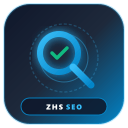
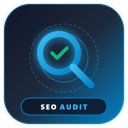
Fix laptop overflow, set default audit to single front page, rename plugin display name to SEO Inspector

Changed region(s): [[0.3125, 0.8125, 0.6875, 0.875]]

diff --git a/assets/css/dashboard.css b/assets/css/dashboard.css
@@ -68,6 +68,8 @@
 	line-height: 1.5;
 	font-size: 14px;
 	-webkit-font-smoothing: antialiased;
+	max-width: 100%;
+	overflow-x: clip;
 }
 
 #seo-inspector-app * {
@@ -176,7 +178,8 @@
 .si-brand-meta {
 	display: flex;
 	align-items: center;
-	gap: 8px;
+	flex-wrap: wrap;
+	gap: 6px 8px;
 	margin-top: 4px;
 	font-size: 12.5px;
 	color: var(--si-text-muted);
@@ -225,10 +228,15 @@
 	font-weight: 600;
 	font-size: 12px;
 	border: 1px solid var(--si-border-color);
+	max-width: 260px;
+	white-space: nowrap;
+	overflow: hidden;
+	text-overflow: ellipsis;
 }
 
 .si-audited-page-chip svg {
 	color: var(--si-primary);
+	flex-shrink: 0;
 }
 
 .si-topbar-actions {
@@ -308,9 +316,10 @@
 .si-multiselect-panel {
 	position: absolute;
 	top: calc(100% + 8px);
-	right: 0;
+	left: 0;
+	right: auto;
 	width: 380px;
-	max-width: 90vw;
+	max-width: min(380px, calc(100vw - 40px));
 	background: #ffffff;
 	border: 1px solid var(--si-border-color);
 	border-radius: var(--si-radius-lg);
@@ -1483,15 +1492,29 @@
 /* -------------------------------------------------------------------------
  * 9. RESPONSIVE MEDIA QUERIES
  * ------------------------------------------------------------------------- */
-@media (max-width: 1024px) {
+@media (max-width: 1300px) {
 	.si-topbar {
 		flex-direction: column;
-		align-items: flex-start;
+		align-items: stretch;
+		gap: 16px;
+		padding: 18px 20px;
+	}
+	.si-topbar-brand {
+		width: 100%;
 	}
 	.si-topbar-actions {
 		width: 100%;
 		justify-content: flex-start;
+		flex-wrap: wrap;
+		gap: 10px;
 	}
+	.si-multiselect-dropdown {
+		flex: 0 1 auto;
+		max-width: 100%;
+	}
+}
+
+@media (max-width: 1024px) {
 	.si-toolbar {
 		flex-direction: column;
 		align-items: stretch;
@@ -1499,9 +1522,52 @@
 	.si-toolbar-controls {
 		width: 100%;
 		justify-content: space-between;
+		flex-wrap: wrap;
+		gap: 10px;
 	}
 	.si-search-input-wrap {
 		width: 100%;
+	}
+}
+
+@media (max-width: 768px) {
+	#seo-inspector-app.si-dashboard-wrap {
+		margin: 12px 12px 30px 0;
+	}
+	.si-topbar {
+		padding: 16px;
+	}
+	.si-brand-icon {
+		width: 40px;
+		height: 40px;
+	}
+	.si-topbar-actions {
+		flex-direction: column;
+		align-items: stretch;
+	}
+	.si-multiselect-dropdown {
+		width: 100%;
+	}
+	.si-multiselect-trigger {
+		width: 100%;
+		justify-content: space-between;
+	}
+	.si-multiselect-label {
+		max-width: calc(100% - 60px);
+	}
+	.si-multiselect-panel {
+		width: 100%;
+		max-width: 100%;
+		left: 0;
+		right: 0;
+	}
+	.si-topbar-actions .si-btn {
+		width: 100%;
+		justify-content: center;
+	}
+	.si-author-badge {
+		width: 100%;
+		justify-content: center;
 	}
 }
 

diff --git a/assets/js/dashboard.js b/assets/js/dashboard.js
@@ -29,8 +29,8 @@
 		searchQuery: '',
 		isAllExpanded: false,
 		isAuditing: false,
-		auditMode: config.auditMode || 'full_site',
-		selectedUrls: config.scannedUrls && config.scannedUrls.length ? config.scannedUrls : [],
+		auditMode: config.auditMode || 'single',
+		selectedUrls: config.scannedUrls && config.scannedUrls.length ? config.scannedUrls : [ config.targetUrl || config.siteUrl ],
 		isDropdownOpen: false,
 	};
 
@@ -326,7 +326,18 @@
 		state.isDropdownOpen = true;
 		if (elements.msWrap) elements.msWrap.classList.add('open');
 		if (elements.msTrigger) elements.msTrigger.setAttribute('aria-expanded', 'true');
-		if (elements.msPanel) elements.msPanel.style.display = 'block';
+		if (elements.msPanel) {
+			elements.msPanel.style.display = 'block';
+			// Prevent panel from clipping outside screen bounds on laptop screens
+			const rect = elements.msPanel.getBoundingClientRect();
+			if (rect.right > window.innerWidth - 16) {
+				elements.msPanel.style.left = 'auto';
+				elements.msPanel.style.right = '0';
+			} else if (rect.left < 16) {
+				elements.msPanel.style.left = '0';
+				elements.msPanel.style.right = 'auto';
+			}
+		}
 		if (elements.msSearchInput) {
 			setTimeout(function () { elements.msSearchInput.focus(); }, 50);
 		}

diff --git a/scripts/generate-assets.js b/scripts/generate-assets.js
@@ -118,10 +118,10 @@ async function run() {
 		<!-- Checkmark inside lens -->
 		<polyline points="104,106 114,116 134,96" fill="none" stroke="#10b981" stroke-width="7" stroke-linecap="round" stroke-linejoin="round" />
 
-		<!-- Brand Monogram Tag: ZHS SEO -->
+		<!-- Brand Monogram Tag: SEO AUDIT -->
 		<rect x="42" y="196" width="172" height="34" rx="17" fill="#0f172a" fill-opacity="0.85" stroke="#0284c7" stroke-width="1.8" />
 		<text x="128" y="219" font-family="-apple-system, BlinkMacSystemFont, 'Segoe UI', Roboto, sans-serif" font-size="14.5" font-weight="900" fill="#ffffff" text-anchor="middle" letter-spacing="2.2">
-			ZHS <tspan fill="#38bdf8">SEO</tspan>
+			SEO <tspan fill="#38bdf8">AUDIT</tspan>
 		</text>
 	</svg>
 	`;
@@ -218,7 +218,7 @@ async function run() {
 
 			<!-- Main Title -->
 			<text x="0" y="98" font-family="-apple-system, BlinkMacSystemFont, 'Segoe UI', Roboto, sans-serif" font-size="64" font-weight="900" fill="#ffffff" letter-spacing="-1.5">
-				SEO Inspector <tspan fill="url(#cyanText)">ZHS</tspan>
+				SEO <tspan fill="url(#cyanText)">Inspector</tspan>
 			</text>
 
 			<!-- Subtitle -->

diff --git a/scripts/package-release.js b/scripts/package-release.js
@@ -23,7 +23,7 @@ const SCRATCH_ZIP = path.join(process.env.USERPROFILE || 'C:\\Users\\MD. Ziaul H
 
 async function main() {
 	console.log('==========================================================');
-	console.log(' Packaging SEO Inspector ZHS for WordPress (Cross-Platform ZIP)');
+	console.log(' Packaging SEO Inspector for WordPress (Cross-Platform ZIP)');
 	console.log('==========================================================\n');
 
 	// 1. Clean and prepare dist directory

diff --git a/templates/dashboard-view.php b/templates/dashboard-view.php
@@ -14,8 +14,8 @@ if ( ! defined( 'ABSPATH' ) ) {
 	exit;
 }
 
-// Retrieve initial pre-calculated data
-$initial_audit   = $this->engine->run_audit( false );
+// Retrieve initial pre-calculated data (defaulting to single page / home page for rapid initial load)
+$initial_audit   = $this->engine->run_audit( false, home_url( '/' ), 'single' );
 $overall_score   = $initial_audit['score'] ?? 0;
 $grade           = $initial_audit['grade'] ?? 'N/A';
 $grade_label     = $initial_audit['grade_label'] ?? '';
@@ -27,8 +27,8 @@ $checks          = $initial_audit['checks'] ?? array();
 $site_url        = $initial_audit['site_url'] ?? home_url( '/' );
 $page_name       = $initial_audit['page_name'] ?? __( 'Front Page (Homepage)', 'seo-inspector-zhs' );
 $page_url        = $initial_audit['page_url'] ?? $site_url;
-$audit_mode      = $initial_audit['audit_mode'] ?? 'full_site';
-$scope_label     = $initial_audit['scope_label'] ?? $page_name;
+$audit_mode      = $initial_audit['audit_mode'] ?? 'single';
+$scope_label     = ( $audit_mode === 'single' ) ? $page_name : ( $initial_audit['scope_label'] ?? $page_name );
 $scannable_pages = $initial_audit['scannable_pages'] ?? $this->engine->get_scannable_pages();
 $last_audit      = ! empty( $initial_audit['formatted_date'] ) ? $initial_audit['formatted_date'] : current_time( 'mysql' );
 ?>
@@ -88,7 +88,7 @@ $last_audit      = ! empty( $initial_audit['formatted_date'] ) ? $initial_audit[
 					<span class="si-multiselect-label" id="si-multiselect-label">
 						<?php echo esc_html( $scope_label ); ?>
 					</span>
-					<span class="si-multiselect-badge" id="si-multiselect-badge"><?php echo ( $audit_mode === 'full_site' ) ? 'All' : count( $initial_audit['scanned_urls'] ?? array( 1 ) ); ?></span>
+					<span class="si-multiselect-badge" id="si-multiselect-badge"><?php echo ( $audit_mode === 'full_site' ) ? 'All' : ( ( $audit_mode === 'single' ) ? '1' : count( $initial_audit['scanned_urls'] ?? array( 1 ) ) ); ?></span>
 					<svg class="si-ms-chevron" width="14" height="14" viewBox="0 0 24 24" fill="none" stroke="currentColor" stroke-width="2.5"><polyline points="6 9 12 15 18 9"></polyline></svg>
 				</button>
 
@@ -129,7 +129,7 @@ $last_audit      = ! empty( $initial_audit['formatted_date'] ) ? $initial_audit[
 								$is_front   = ( $sp['id'] === 'front' );
 								$tag_class  = $is_front ? 'tag-front' : ( strpos( $sp['title'], 'Post' ) !== false ? 'tag-post' : 'tag-page' );
 								$tag_name   = $is_front ? __( 'Front Page', 'seo-inspector-zhs' ) : ( strpos( $sp['title'], 'Post' ) !== false ? __( 'Post', 'seo-inspector-zhs' ) : __( 'Page', 'seo-inspector-zhs' ) );
-								$is_checked = ( $audit_mode === 'full_site' || in_array( $sp['url'], $initial_audit['scanned_urls'] ?? array(), true ) || $sp['url'] === $page_url );
+								$is_checked = ( $audit_mode === 'full_site' ) ? true : ( $sp['url'] === $page_url || ( empty( $initial_audit['scanned_urls'] ) && $is_front ) || in_array( $sp['url'], $initial_audit['scanned_urls'] ?? array(), true ) );
 							?>
 								<label class="si-ms-item page-item" data-search="<?php echo esc_attr( strtolower( $sp['title'] . ' ' . $sp['url'] ) ); ?>">
 									<input type="checkbox" class="si-ms-checkbox page-checkbox" value="<?php echo esc_url( $sp['url'] ); ?>" data-title="<?php echo esc_attr( $sp['title'] ); ?>" <?php checked( $is_checked ); ?>>
@@ -147,7 +147,7 @@ $last_audit      = ! empty( $initial_audit['formatted_date'] ) ? $initial_audit[
 
 					<div class="si-ms-footer">
 						<div class="si-ms-status-summary">
-							<span id="si-ms-selected-summary"><?php echo ( $audit_mode === 'full_site' ) ? esc_html__( 'Full website selected', 'seo-inspector-zhs' ) : sprintf( esc_html__( '%d pages selected', 'seo-inspector-zhs' ), count( $initial_audit['scanned_urls'] ?? array() ) ); ?></span>
+							<span id="si-ms-selected-summary"><?php echo ( $audit_mode === 'full_site' ) ? esc_html__( 'Full website selected', 'seo-inspector-zhs' ) : ( ( $audit_mode === 'single' ) ? esc_html__( '1 page selected', 'seo-inspector-zhs' ) : sprintf( esc_html__( '%d pages selected', 'seo-inspector-zhs' ), count( $initial_audit['scanned_urls'] ?? array( 1 ) ) ) ); ?></span>
 						</div>
 						<div class="si-ms-footer-btns">
 							<button type="button" class="si-btn si-btn-primary si-btn-sm" id="si-btn-run-ms-audit">

diff --git a/includes/class-admin-page.php b/includes/class-admin-page.php
@@ -90,8 +90,8 @@ class SEO_Inspector_ZHS_Admin_Page {
 			true
 		);
 
-		// Preload initial audit state so the dashboard renders instantly without waiting for extra network round-trips
-		$initial_audit = $this->engine->run_audit( false, '', 'full_site' );
+		// Preload initial audit state for front page (home) so the dashboard renders instantaneously without blocking page loads
+		$initial_audit = $this->engine->run_audit( false, home_url( '/' ), 'single' );
 
 		wp_localize_script(
 			'seo-inspector-zhs-admin-js',
@@ -104,11 +104,11 @@ class SEO_Inspector_ZHS_Admin_Page {
 				'authorUri'          => 'https://mdziaulhasan.com/',
 				'initialData'        => $initial_audit,
 				'scannablePages'     => $this->engine->get_scannable_pages(),
-				'auditMode'          => $initial_audit['audit_mode'] ?? 'full_site',
-				'scopeLabel'         => $initial_audit['scope_label'] ?? __( 'Full Website Audit', 'seo-inspector-zhs' ),
-				'targetUrl'          => $initial_audit['page_url'] ?? home_url( '/' ),
-				'currentPageName'    => $initial_audit['page_name'] ?? __( 'Full Website Audit', 'seo-inspector-zhs' ),
-				'scannedUrls'        => $initial_audit['scanned_urls'] ?? array(),
+				'auditMode'          => 'single',
+				'scopeLabel'         => $initial_audit['page_name'] ?? __( 'Front Page (Homepage)', 'seo-inspector-zhs' ),
+				'targetUrl'          => home_url( '/' ),
+				'currentPageName'    => $initial_audit['page_name'] ?? __( 'Front Page (Homepage)', 'seo-inspector-zhs' ),
+				'scannedUrls'        => array( home_url( '/' ) ),
 				'i18n'               => array(
 					'runningAudit'   => __( 'Running live audit & inspecting DOM...', 'seo-inspector-zhs' ),
 					'auditComplete'  => __( 'SEO Audit completed successfully!', 'seo-inspector-zhs' ),

diff --git a/seo-inspector-zhs.php b/seo-inspector-zhs.php
@@ -1,6 +1,6 @@
 <?php
 /**
- * Plugin Name:       SEO Inspector ZHS
+ * Plugin Name:       SEO Inspector
  * Description:       Production-ready, modular WordPress SEO audit and analytics engine with live front-end DOM diagnostics, usability, accessibility, SEO, and GEO/AI readiness verification.
  * Version:           1.1.0
  * Author:            MD. Ziaul Hasan

diff --git a/README.md b/README.md
@@ -1,4 +1,4 @@
-# SEO Inspector (SEO Inspector ZHS)
+# SEO Inspector
 
 [![WordPress Tested](https://img.shields.io/badge/WordPress-5.8%2B-blue.svg)](https://wordpress.org)
 [![PHP Tested](https://img.shields.io/badge/PHP-7.4%20--%208.3-777bb4.svg)](https://php.net)
@@ -125,7 +125,7 @@ All endpoints are registered under the `seo-inspector/v1` namespace and require 
 
 ## 👨💻 Developer & Attribution
 
-- **Plugin Name**: SEO Inspector (SEO Inspector ZHS)
+- **Plugin Name**: SEO Inspector
 - **Author**: MD. Ziaul Hasan
 - **Author URI**: [https://mdziaulhasan.com/](https://mdziaulhasan.com/)
 - **Text Domain**: `seo-inspector-zhs`
